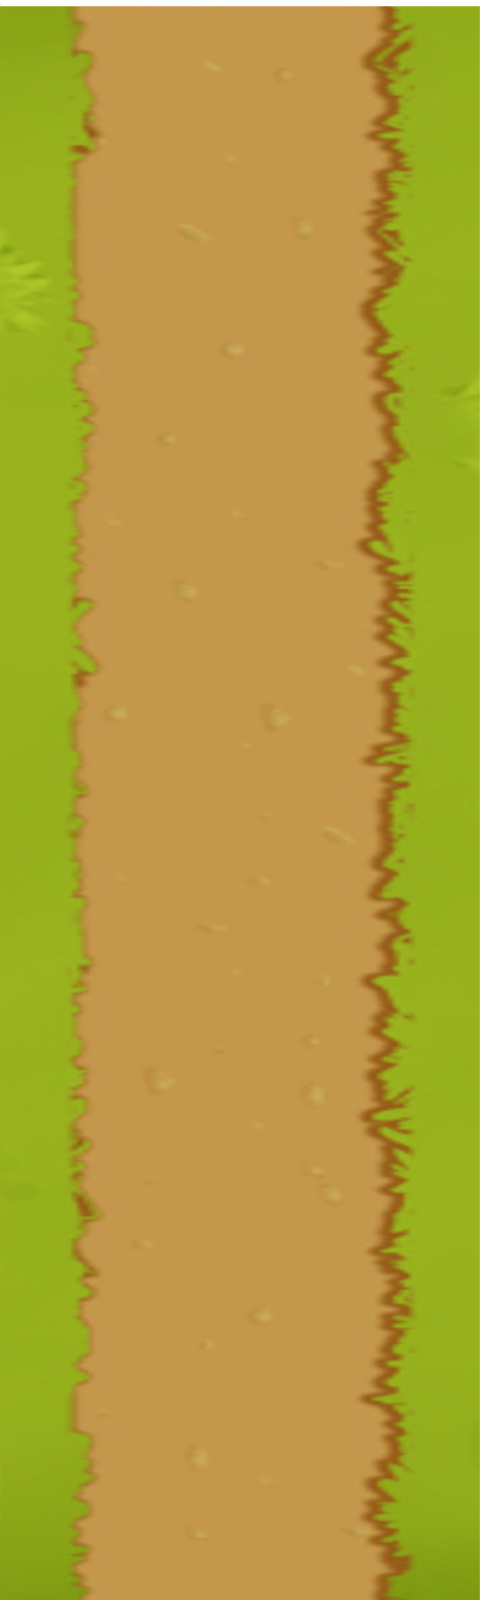
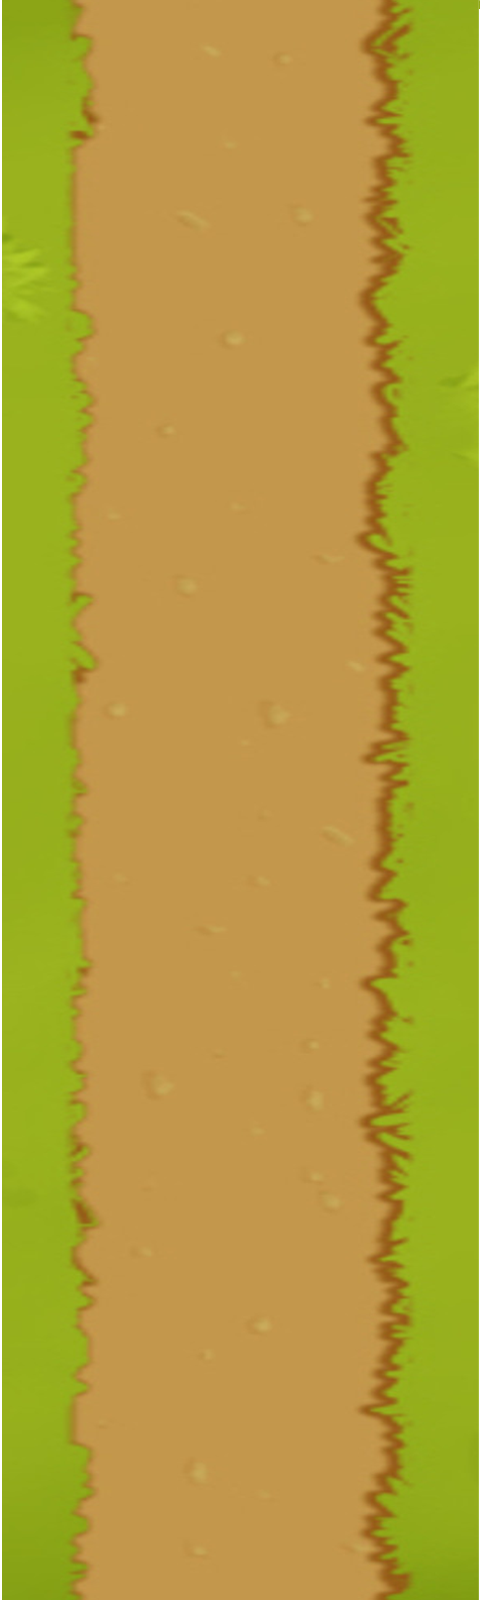
Gestion collision carré disparait si collision

diff --git a/main.cc b/main.cc
@@ -7,6 +7,7 @@
 #include "Player.hh"
 #include "Background.hh"
 #include "Evenement.hh"
+#include "Objet.hh"
 
  // Taille de la fenêtre : 800x480 pixels
 const int SCREEN_WIDTH = 480;
@@ -21,24 +22,36 @@ int main()
     window.setPosition(sf::Vector2i(200,200)); //A modifier selon les écrans
     window.setFramerateLimit(60);
      //Background
-    Background Fond("Image/background1.png");
-    Fond.Apparition(window);    
+    Background Fond1("Image/background1.png",5);
+    Background Fond2("Image/background2.png",5);
+    Fond1.Apparition(window);    
     //Perso
     Player Perso("Image/ST1.png",1);//,0,0,0,0);
 
-    //Perso.setDimension(0.25,0.25);
+    Objet Carre("Image/carre.png",5);
+    Carre.Apparition(window);
     Perso.Apparition(window);
 
     Evenement event;
+
+    //Pour test
+    bool touche=false;
 
     while(window.isOpen()){
           
         event.ActionPlayer(window,&Perso);
         window.clear();
-        Fond.Apparition(window);
-        Fond.Scrolling();
+        Fond1.Apparition(window);
+        Fond2.Apparition(window);
+        Fond1.Scrolling(&Fond2);
         Perso.changement_cadre();
-        Perso.Apparition(window);       
+        Perso.Apparition(window);
+        Carre.Scrolling();
+
+        //Pour test gestion collision
+        if(Carre.getPos_x()==Perso.getPos_x() && Carre.getPos_y()==Perso.getPos_y()) touche=true;
+        if(touche==false) Carre.Apparition(window);    
+        //
     	sf::Event event;
     	while(window.pollEvent(event)){
     		//Si on clique sur fermer
@@ -58,7 +71,7 @@ int main()
     	// 		Perso.move(vitesse,-saut/10);
     	// 		// window.clear();
     	// 		// window.draw(background);
-     //            Fond.Apparition(window);
+     //            Fond1.Apparition(window);
     	// 		Perso.Apparition(window);
     	// 		window.display();
     	// 	}	
@@ -67,7 +80,7 @@ int main()
     	// 		Perso.move(vitesse,saut/10);
     	// 		//window.clear();
     	// 		// window.draw(background);
-     //            Fond.Apparition(window);
+     //            Fond1.Apparition(window);
     	// 		Perso.Apparition(window);
     	// 		window.display();
     	// 	}
@@ -82,7 +95,7 @@ int main()
     	// 		Perso.move(0,-saut/10);
     	// 		// window.clear();
     	// 		// window.draw(background);
-     //            Fond.Apparition(window);
+     //            Fond1.Apparition(window);
     	// 		Perso.Apparition(window);
     	// 		window.display();
     	// 	}	
@@ -91,13 +104,13 @@ int main()
     	// 		Perso.move(0,saut/10);
     	// 		// window.clear();
     	// 		// window.draw(background);
-     //            Fond.Apparition(window);
+     //            Fond1.Apparition(window);
     	// 		Perso.Apparition(window);
     	// 		window.display();
     	// 	}
     	// }
 
-     //    Fond.Apparition(window);
+     //    Fond1.Apparition(window);
     	// Perso.Apparition(window);
      //    Perso.Apparition(window);
     	// window.display();

diff --git a/Decor.cc b/Decor.cc
@@ -10,12 +10,18 @@ Decor::Decor(string chemins)
 		cout << "Erreur durant le chargement de l'image de background." << endl;
 	}
 	else
+	{
+		_texture.setSmooth(true);
 		_image.setTexture(_texture);
+	}
+	_vitesse_scrolling=0;
+
+
 }
 
-Decor::Decor(std::string chemins,int cptcadre)//top, int left, int largeur, int hauteur)
+Decor::Decor(std::string chemins,int vitesse_scrolling)
 {
-	if (!_texture.loadFromFile(chemins))//,sf::IntRect(top,left,largeur,hauteur)))
+	if (!_texture.loadFromFile(chemins))
 	{
 		// Erreur
 		cout << "Erreur durant le chargement de l'image de background." << endl;
@@ -25,12 +31,9 @@ Decor::Decor(std::string chemins,int cptcadre)//top, int left, int largeur, int 
 		_texture.setSmooth(true);
 		_image.setTexture(_texture);
 	}
+	_vitesse_scrolling=vitesse_scrolling;
 }
 
-// void Decor::Apparition(sf::RenderWindow& window)
-// {
-// 	window.draw(_image);
-// }
 
 void Decor::setDimension(double coeffLargeur, double coeffHauteur)
 {
@@ -45,4 +48,19 @@ void Decor::move(int x, int y)
 void Decor::setPos(int x, int y)
 {
 	_image.setPosition(x,y);
+}
+
+int Decor::getPos_x(){
+	return _image.getPosition().x;
+}
+
+int Decor::getPos_y(){
+	return _image.getPosition().y;
+}
+
+int Decor::getSize_x(){
+	return _texture.getSize().x;
+}
+int Decor::getSize_y(){
+	return _texture.getSize().y;
 }

diff --git a/Background.cc b/Background.cc
@@ -1,6 +1,6 @@
 #include "Background.hh"
 
-Background::Background(std::string chemins):Decor(chemins){//,int top, int left, int largeur, int hauteur):Decor(chemins,top,left,largeur,hauteur){
+Background::Background(std::string chemins,int vitesse_scrolling):Decor(chemins,vitesse_scrolling){
 	_image.setPosition(0,-800);
 }
 
@@ -9,6 +9,19 @@ void Background::Apparition(sf::RenderWindow& window){
 	window.draw(_image);
 }
 
-void Background::Scrolling(){
-	_image.move(0,3);
+void Background::Scrolling(Background* Fond2){
+	//Fonction scrolling infinie 
+	//On gère les deux même décors A et B qui se suivent
+
+	//Si |A.y|>=hauteur_A/2 alors on bouge A et B.y=A.y-hauteur_A/2
+	if(_image.getPosition().y>=-(int)_texture.getSize().y/2 && _image.getPosition().y<=(int)_texture.getSize().y/2){
+		_image.move(0,_vitesse_scrolling);
+		Fond2->setPos(0,_image.getPosition().y-(int)_texture.getSize().y);
+	}
+
+	//Si |B.y|>=hauteur_A/2 alors on bouge B et A.y=B.y-hauteur_A/2
+	else if(Fond2->getPos_y()>=-(int)_texture.getSize().y/2 && Fond2->getPos_y()<=(int)_texture.getSize().y/2){
+		Fond2->move(0,_vitesse_scrolling);
+		_image.setPosition(0,Fond2->getPos_y()-(int)_texture.getSize().y);
+	}
 }

diff --git a/Player.cc b/Player.cc
@@ -2,7 +2,7 @@
 #define VITESSE_COURSE 5 //Gère la vitesse de changement car les sleeps c'est galere
 int vitesse_course=0;
 
-Player::Player(std::string chemins,int cptcadre):Decor(chemins){//,int top, int left, int largeur, int hauteur):Decor(chemins,top,left,largeur,hauteur){
+Player::Player(std::string chemins,int cptcadre):Decor(chemins){
 	_cptcadre=cptcadre;
 	_pos=1;
 	_image.setPosition(200,400);

diff --git a/Objet.cc b/Objet.cc
@@ -1,0 +1,13 @@
+#include "Objet.hh"
+
+Objet::Objet(std::string chemins,int vitesse_scrolling):Decor(chemins,vitesse_scrolling){
+	_image.setPosition(100,100);
+}
+
+void Objet::Apparition(sf::RenderWindow& window){
+	window.draw(_image);
+}
+
+void Objet::Scrolling(){
+	_image.move(0,_vitesse_scrolling);
+}
